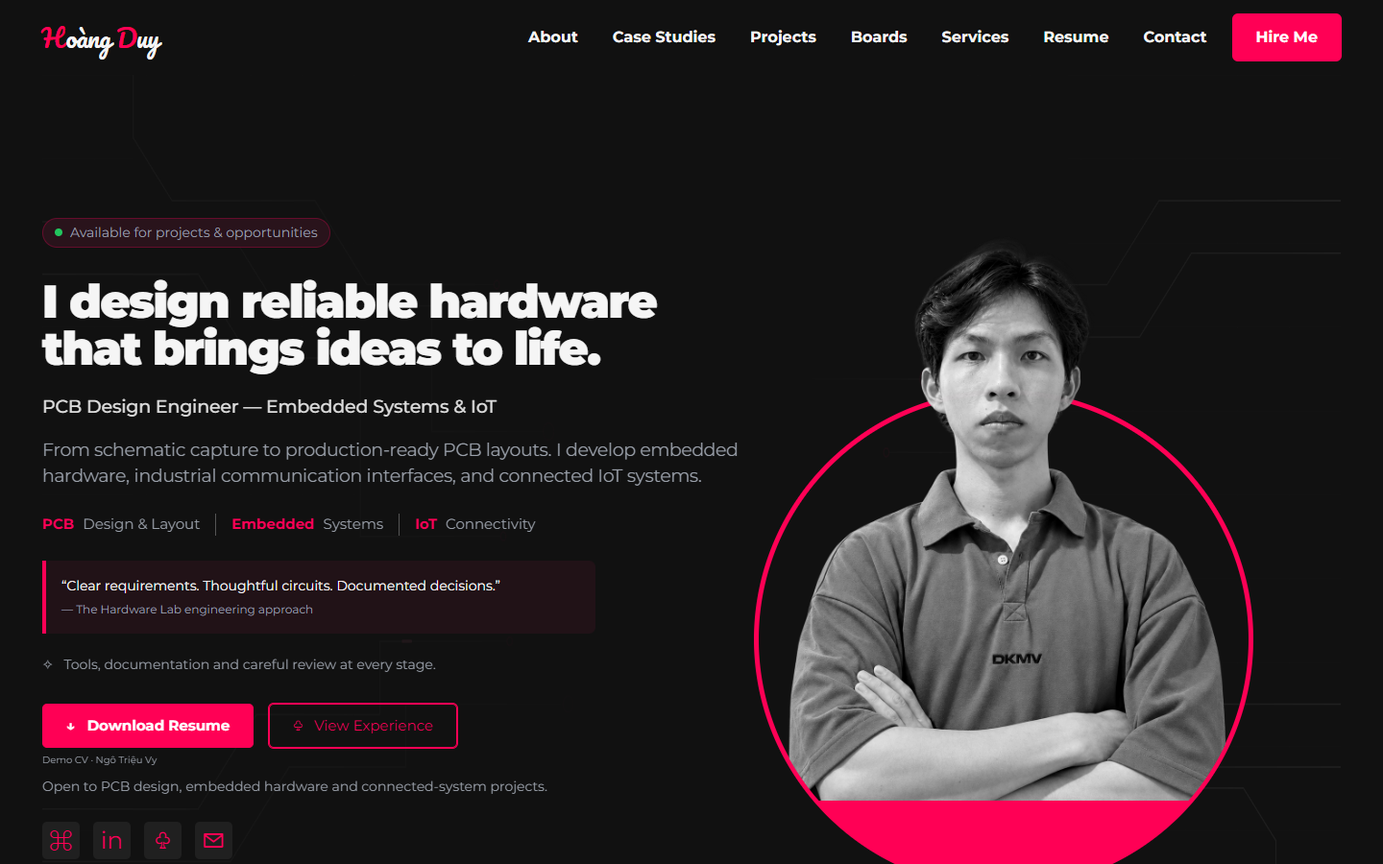
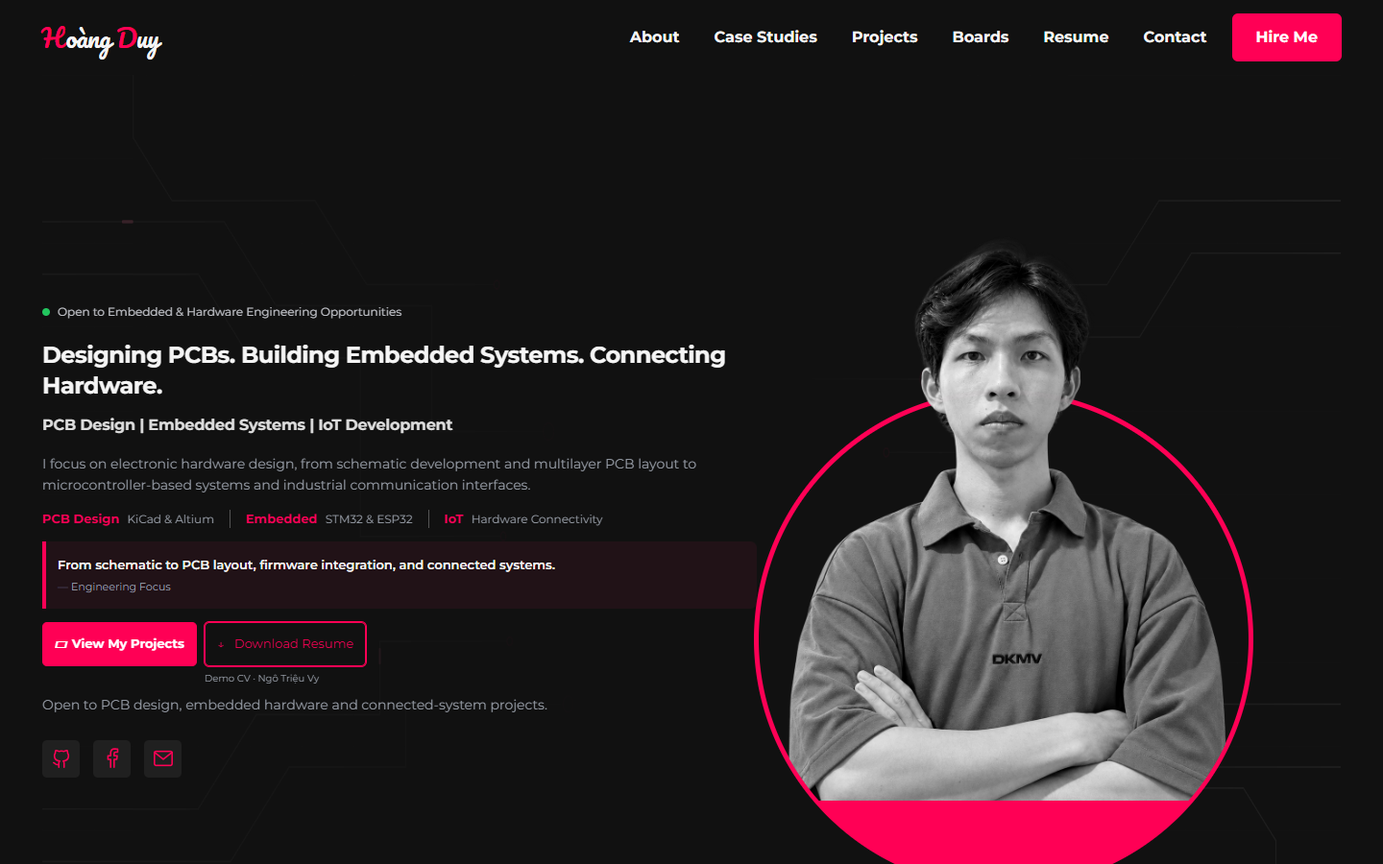
Refresh hero, social links and technical skills

diff --git a/src/components/PortfolioHome.tsx b/src/components/PortfolioHome.tsx
@@ -15,26 +15,27 @@ import { CircuitBackground } from './backgrounds/CircuitBackground';
 import { ProjectCard } from './ProjectCard';
 import { ResumeDownload } from './ResumeDownload';
 import { VisionMarquee } from './VisionMarquee';
+import { PortfolioSocials } from './PortfolioSocials';
+import { TechnicalSkills } from './TechnicalSkills';
 
 export function Heading({label,children,description}:{label:string;children:ReactNode;description?:string}){return <div className="ref-heading"><span>{label}</span><h2>{children}</h2>{description&&<p>{description}</p>}</div>}
 export function Action({children,outline=false,href='#contact'}:{children:ReactNode;outline?:boolean;href?:string}){return <Link className={'ref-button'+(outline?' outline':'')} href={href}>{children}</Link>}
-export function Socials(){return <div className="ref-socials"><Link href="/boards/" aria-label="Project library">⌘</Link><Link href="/about/" aria-label="About Hardware Lab"><span aria-hidden="true">in</span></Link><Link href="/portfolio/schematics/" aria-label="Schematic studies">♧</Link><a href="#contact" aria-label="Contact">✉</a></div>}
+export function Socials(){return <PortfolioSocials/>}
 const capabilities=[['ϟ','PCB LAYOUT & ROUTING','Production-minded Design','Component placement, signal routing and clear manufacturing documentation.','KiCad · Altium'],['♡','EMBEDDED MICROCONTROLLERS','Connected Control','Microcontroller architecture, peripheral interfaces and firmware integration.','STM32 · ESP32'],['♧','INDUSTRIAL COMMUNICATION','Reliable Interfaces','System planning for robust communication between connected devices.','CAN · RS485'],['↔','ANALOG & DIGITAL INTERFACES','Clear Signal Paths','Sensor acquisition, digital control and interface protection studies.','ADC · GPIO'],['▱','POWER SUPPLY DESIGN','Thoughtful Power','Power architecture, regulation and distribution for embedded systems.','DC/DC · LDO'],['◇','IoT CONNECTIVITY','Remote Visibility','Connected hardware concepts for monitoring, telemetry and control.','Ethernet · Cellular']];
-const services=[{title:'PCB Design & Schematic Capture',sub:'Bring your circuit into physical form',for:'Hardware teams developing a new board',desc:'A clear path from component selection and schematic capture to layout and manufacturing documentation.',items:['Component selection and schematic design','PCB placement and routing','Design rule review','BOM and manufacturing outputs']},{title:'Embedded Hardware Development',sub:'Connect sensing, processing and control',for:'Teams building microcontroller-based products',desc:'Plan embedded hardware around your system requirements, with documented interfaces and firmware integration.',items:['STM32 / ESP32 integration','Sensor and peripheral interfaces','Communication protocol planning','Hardware debugging support']},{title:'IoT System Prototyping',sub:'Bring connected ideas to life',for:'Teams exploring remote monitoring systems',desc:'Connect devices, data and interfaces through a documented prototype architecture tailored to your application.',items:['Wireless connectivity planning','Ethernet and cellular interfaces','Remote monitoring architecture','Dashboard integration']}];
 export function CaseStudy({index=0}:{index?:number}){const board=boards[index];return <article className={'ref-case'+(!index?' featured':'')}><div className="ref-tags"><span>{!index?'Featured project':'Personal project'}</span><span>{board.name}</span></div><h3>{board.name}</h3><p className="ref-role">♧ Personal hardware & PCB design project</p><p className="ref-period">Original project image · Design documentation</p><h4>THE PROJECT</h4><p>{board.description}</p><h4>PROJECT WORK</h4><ul>{board.features.map(x=><li key={x}>{x}</li>)}</ul><h4>DESIGN SCOPE</h4><div className="ref-results">{board.scope.map(x=><div key={x}><strong><AnimatedCounter text={x}/></strong><small>Project scope</small></div>)}</div><h4>TECH STACK</h4><div className="ref-tags">{board.techStack.map(x=><span key={x}>{x}</span>)}</div></article>}
 export function PortfolioHome(){const[expanded,setExpanded]=useState(false);const{value:education,select:setEducation,panelRef}=useAnimatedPanel(false);const motionScope=usePortfolioMotion();return <div className="reference-home" ref={motionScope}>
-<section className="ref-hero ref-container circuit-section"><div><div className="ref-available"><i/>Available for projects & opportunities</div><h1>I design reliable hardware<br/>{' '}that brings ideas to life.</h1><p className="ref-title">PCB Design Engineer — Embedded Systems & IoT</p><p className="ref-lead">From schematic capture to production-ready PCB layouts. I develop embedded hardware, industrial communication interfaces, and connected IoT systems.</p><div className="ref-highlights"><span><b>PCB</b> Design & Layout</span><span><b>Embedded</b> Systems</span><span><b>IoT</b> Connectivity</span></div><blockquote><em>“Clear requirements. Thoughtful circuits. Documented decisions.”</em><small>— The Hardware Lab engineering approach</small></blockquote><p className="ref-advantage">✧ &nbsp; Tools, documentation and careful review at every stage.</p><div className="ref-actions"><ResumeDownload/><Action outline href="#resume">♧ &nbsp; View Experience</Action></div><p className="ref-note">Open to PCB design, embedded hardware and connected-system projects.</p><Socials/></div><figure className="ref-hero-art"><div className="ref-circle"/><div className="ref-portrait-window"><Image src={portrait.src} width={portrait.width} height={portrait.height} alt={portrait.alt} sizes="(max-width: 799px) 90vw, 520px" loading="eager" fetchPriority="high"/></div><figcaption>{portrait.caption}</figcaption></figure><CircuitBackground/></section>
-<section className="ref-container ref-trust"><p>Engineering tools & platforms</p><div className="ref-tools">{['KiCad','Altium Designer','STM32','ESP32','JLCPCB'].map(x=><span key={x}>♧ &nbsp;{x}</span>)}</div><div className="ref-three ref-stats">{[['PCB','Layout & Schematic Design'],['STM32 / ESP32','Embedded Development'],['CAN / RS485','Interface Integration']].map(([a,b])=><div key={a}><strong>{a}</strong><p>{b}</p></div>)}</div></section>
+<section className="ref-hero ref-container circuit-section"><div><div className="ref-available"><i/>Open to Embedded & Hardware Engineering Opportunities</div><h1>Designing PCBs. Building Embedded Systems. Connecting Hardware.</h1><p className="ref-title">PCB Design | Embedded Systems | IoT Development</p><p className="ref-lead">I focus on electronic hardware design, from schematic development and multilayer PCB layout to microcontroller-based systems and industrial communication interfaces.</p><div className="ref-highlights"><span><b>PCB Design</b> KiCad & Altium</span><span><b>Embedded</b> STM32 & ESP32</span><span><b>IoT</b> Hardware Connectivity</span></div><blockquote><em>From schematic to PCB layout, firmware integration, and connected systems.</em><small>— Engineering Focus</small></blockquote><div className="ref-actions"><Action href="#projects">▱ View My Projects</Action><ResumeDownload outline/></div><p className="ref-note">Open to PCB design, embedded hardware and connected-system projects.</p><Socials/></div><figure className="ref-hero-art"><div className="ref-circle"/><div className="ref-portrait-window"><Image src={portrait.src} width={portrait.width} height={portrait.height} alt={portrait.alt} sizes="(max-width: 799px) 90vw, 520px" loading="eager" fetchPriority="high"/></div><figcaption>{portrait.caption}</figcaption></figure><CircuitBackground/></section>
+<section className="ref-container ref-trust"><p>Engineering tools & platforms</p><div className="ref-tools">{['KiCad','Altium Designer','STM32','ESP32','JLCPCB'].map(x=><span key={x}>♧ &nbsp;{x}</span>)}</div><div className="ref-domain-grid">{[["HARDWARE","Hardware design","PCB schematic & layout"],["FIRMWARE","Firmware integration","Microcontrollers & interfaces"],["SOFTWARE","Software interfaces","Dashboards & monitoring"],["IoT","Connected systems","Sensors, telemetry & control"]].map(([label,title,description])=><article key={label}><span>{label}</span><h3>{title}</h3><p>{description}</p></article>)}</div></section>
 <section id="case-studies" className="ref-container ref-section"><Heading label="ENGINEERING STUDIES" description="My personal hardware projects, with original board images and design documentation.">Featured <em>Case Studies</em></Heading><CaseStudy/><div className="ref-two ref-case-grid"><CaseStudy index={1}/><CaseStudy index={2}/></div><div className="ref-strategy"><p>Have a hardware challenge to explore?</p><ResumeDownload/></div></section>
 <VisionMarquee/>
 <section id="projects" className="ref-container ref-section circuit-section"><Heading label="SELECTED WORK" description="Five personal PCB and embedded hardware projects. ESP32 Devkit, IoT Board and ESP32 Datalogger are featured first.">Recent <em>Projects</em></Heading><div className="ref-three ref-projects">{boards.slice(0,3).map(board=><ProjectCard key={board.slug} board={board}/>)}</div><AnimatedRegion open={expanded} id="additional-projects"><div className="ref-three ref-projects ref-extra">{boards.slice(3).map(board=><ProjectCard key={board.slug} board={board}/>)}</div></AnimatedRegion><button className="ref-expand" aria-controls="additional-projects" onClick={()=>setExpanded(!expanded)} aria-expanded={expanded}>{expanded?'▾ Show fewer projects':'▸ View 2 more projects'}</button><CircuitBackground variant="transition"/></section>
-<section id="services" className="ref-container ref-section"><Heading label="HOW I CAN HELP" description="Clear deliverables and a scope tailored to your engineering needs."><em>Productized</em> Services</Heading><div className="ref-three ref-services">{services.map((s,i)=><article key={s.title}><div className="service-top"><span className="ref-icon"><ReferenceIcon symbol={['⌕','◎','✧'][i]}/></span>{!i&&<b>Most Popular</b>}</div><h3>{s.title}</h3><p className="service-sub">{s.sub}</p><p><strong>For:</strong> {s.for}</p><p>{s.desc}</p><h4>What you get:</h4><ul>{s.items.map(x=><li key={x}>{x}</li>)}</ul><p className="service-time">◷ &nbsp; Timeline: <strong>Quoted per project</strong></p><Action outline={i>0}>{["Let's Talk →",'Get a Quote →','Discuss Your Idea →'][i]}</Action></article>)}</div></section>
 <section id="about" className="ref-container ref-about ref-section"><figure><Image src={aboutPortrait.src} alt={aboutPortrait.alt} width={aboutPortrait.width} height={aboutPortrait.height} sizes="(max-width: 799px) 90vw, 565px"/><figcaption>{aboutPortrait.caption}</figcaption></figure><div><span className="ref-label">ABOUT ME</span><h2><em>PCB Design,</em> Embedded<br/>Systems & <em>IoT Engineer</em></h2><p>A personal engineering workspace exploring hardware, firmware and the interfaces that connect them.</p><p className="pink">From the first schematic to connected system concepts, the focus is thoughtful design and clear documentation.</p><h4>I SPECIALIZE IN:</h4><ul className="ref-checks"><li>PCB design and schematic capture with KiCad and Altium</li><li>Embedded microcontrollers and industrial interfaces</li><li>Connected monitoring and IoT system architecture</li></ul><aside>✧ &nbsp; The project images show my personal board designs. Detailed test results and manufacturing status are not published.</aside><Socials/></div></section>
 <section className="ref-container ref-section"><Heading label="WHY THOUGHTFUL ENGINEERING MATTERS" description="Every design starts with system requirements: clear interfaces, maintainable circuits and a practical path to validation."><em>Capabilities</em> I Deliver,<br/>From Circuit to <em>System</em></Heading><div className="ref-three ref-capabilities">{capabilities.map(([icon,title,sub,desc,tags])=><article key={title}><span><ReferenceIcon symbol={icon}/></span><h4>{title}</h4><p className="pink">{sub}</p><p>{desc}</p><div className="ref-tags"><b>{tags}</b><b>Engineering studies</b></div></article>)}</div></section>
 <section id="resume" className="ref-container ref-section"><Heading label="PROJECT-BASED BACKGROUND" description="My personal hardware and embedded-system projects. Employment and education details will be added when supplied.">Engineering <em>Experience</em></Heading><div className="ref-tabs" role="tablist" aria-label="Background" onKeyDown={event=>{if(["ArrowLeft","ArrowRight","Home","End"].includes(event.key)){event.preventDefault();const next=event.key==="Home"?false:event.key==="End"?true:!education;setEducation(next);document.getElementById(next?"education-tab":"experience-tab")?.focus();}}}><button role="tab" id="experience-tab" aria-controls="career-panel" tabIndex={education?-1:0} aria-selected={!education} onClick={()=>setEducation(false)}>Experience</button><button role="tab" id="education-tab" aria-controls="career-panel" tabIndex={education?0:-1} aria-selected={education} onClick={()=>setEducation(true)}>Education</button></div><div className="ref-timeline" ref={panelRef} role="tabpanel" id="career-panel" aria-labelledby={education?"education-tab":"experience-tab"}>{education?<article><h3>Education details</h3><p>Education and qualifications will be added when provided by the portfolio owner.</p></article>:boards.map(board=><article key={board.slug}><i>▣</i><h3>{board.name}</h3><div className="timeline-role"><strong>Personal Hardware & PCB Project</strong><span>Personal project</span></div><div className="ref-tags"><span>PCB Design</span><span>Interfaces</span><span>Documentation</span></div><ul>{board.features.map(x=><li key={x}>{x}</li>)}</ul></article>)}</div></section>
+<TechnicalSkills/>
 <section className="ref-container ref-section"><Heading label="LET’S CONNECT" description="Whether you need engineering support for your project or you’re building your team, let’s discuss the requirements."><em>Work</em> With Me</Heading><div className="ref-two ref-work"><article><span className="ref-icon">♧</span><h3>Have a Hardware Project in Mind?</h3><p>From PCB layout to embedded interfaces and IoT architecture, share your requirements and let&apos;s explore the next step.</p><ResumeDownload/></article><article><span className="ref-icon">♙</span><h3>Open to Engineering Opportunities</h3><p>Interested in thoughtful hardware, embedded systems and connected-product work.</p><h4>Areas of interest:</h4><ul className="ref-checks"><li>PCB design and schematic capture</li><li>Embedded hardware development</li><li>Industrial interfaces and connectivity</li><li>Teams that value clear documentation</li></ul><Action outline href="#resume">♧ &nbsp; View Experience</Action><p className="work-direct">Or reach out directly:</p><a href="#contact">▣ &nbsp; Start a Conversation</a></article></div></section>
 <section id="faq" className="ref-container ref-section"><Heading label="QUESTIONS & ANSWERS" description="Common questions about engineering services, project scope and how I work.">Frequently Asked <em>Questions</em></Heading><div className="ref-faq">{[['What PCB design software do you use?','The workspace includes KiCad and Altium Designer studies. Tool choice depends on your project requirements.'],['Can you support hardware prototyping?','Prototype scope, assembly and validation requirements are agreed for each project.'],['Do you design multi-layer PCBs?','Layer count and stackup are selected according to routing, signal and power requirements.'],['Do you work with STM32 and ESP32?','These platforms are included in the embedded hardware design scope.'],['Which microcontrollers do you work with?','STM32, ESP32 and other devices can be considered based on your application.'],['Can you integrate IoT connectivity?','Connectivity architecture may include Ethernet, wireless and cellular interfaces.'],['Can you develop industrial interfaces?','CAN, RS485 and analog or digital interface planning can be scoped for your system.'],['Do you offer schematic reviews?','Reviews can cover architecture, interfaces, component selection and design documentation.'],['Do you provide manufacturing files?','Agreed deliverables can include BOM, Gerbers and assembly documentation after design review.'],['Can you help debug existing PCB designs?','Share schematics, symptoms and available measurements to establish a review and debugging scope.']].map(([q,a])=><AnimatedFAQ key={q} question={q} answer={a}/>)}</div></section>
-<section id="contact" className="ref-container ref-section ref-contact circuit-section"><div><span className="ref-label">GET IN TOUCH</span><h2>Let&apos;s Talk For your <em>Next Project(s)</em></h2><p>Discuss a project or just want to say hi? Share your requirements, explore my <a href="#case-studies">case studies</a>, review my <a href="#services">services</a>, or check my <a href="#resume">engineering background.</a></p><ul className="ref-checks"><li>PCB design and schematic capture</li><li>Embedded systems and microcontrollers</li><li>Industrial communication interfaces</li><li>Connected hardware and IoT architecture</li></ul><div className="ref-contact-actions"><Socials/><SendEmail/></div></div><ContactForm/><CircuitBackground variant="contact"/></section>
+<section id="contact" className="ref-container ref-section ref-contact circuit-section"><div><span className="ref-label">GET IN TOUCH</span><h2>Let&apos;s Talk For your <em>Next Project(s)</em></h2><p>Discuss a project or just want to say hi? Share your requirements, explore my <a href="#case-studies">case studies</a>, review my <a href="#technical-skills">technical skills</a>, or check my <a href="#resume">engineering background.</a></p><ul className="ref-checks"><li>PCB design and schematic capture</li><li>Embedded systems and microcontrollers</li><li>Industrial communication interfaces</li><li>Connected hardware and IoT architecture</li></ul><div className="ref-contact-actions"><Socials/><SendEmail/></div></div><ContactForm/><CircuitBackground variant="contact"/></section>
 </div>}
 
 

diff --git a/src/app/reference.css b/src/app/reference.css
@@ -148,3 +148,39 @@ html{color-scheme:dark}body{background:#111;color:#f5f5f5;font-family:'Reference
 .resume-download{display:inline-flex;flex-direction:column;align-items:center;gap:6px}.resume-download small{font-size:10px;color:#999fa9;font-weight:400}
 .board-catalog .filters input,.board-catalog .filters select{background:#1f1f1f;color:#f5f5f5;border:1px solid #363636;border-radius:5px}.board-catalog .filters input::placeholder{color:#999fa9}.board-catalog .filters select option{background:#1f1f1f;color:#f5f5f5}
 .resume-download{position:relative}.resume-download small{position:absolute;top:calc(100% + 5px);left:0;right:0;white-space:nowrap}
+
+/* Owner's revised introduction and skill cards. */
+.ref-hero h1{font-size:28px;line-height:1.32;letter-spacing:-.5px;font-weight:700;margin-top:18px;margin-bottom:14px}
+.ref-hero .ref-available{padding:0;border:0;background:none;font-size:12px;color:#c5c7cd}
+.ref-hero .ref-title{font-size:16px;font-weight:700;line-height:1.5;margin-bottom:14px}
+.ref-hero .ref-lead{font-size:14px;line-height:1.55;letter-spacing:0;margin-bottom:14px}
+.ref-hero .ref-highlights{font-size:12px;margin-bottom:14px;flex-wrap:wrap;row-gap:8px}
+.ref-hero .ref-highlights b{font-size:13px}
+.ref-hero blockquote{padding:14px 12px;margin-bottom:14px}
+.ref-hero blockquote em{font-size:13px;font-style:normal;font-weight:600}
+.ref-hero blockquote small{font-size:11px;margin-top:4px}
+.ref-hero .ref-actions{gap:8px;align-items:flex-start}
+.ref-hero .ref-button{padding:12px;font-size:13px;min-height:46px}
+.ref-socials a{position:relative;overflow:visible;display:inline-flex;align-items:center;justify-content:center}
+.social-tooltip{position:absolute;bottom:calc(100% + 9px);left:50%;transform:translate(-50%,4px);padding:5px 10px;border:1px solid #ff0055;border-radius:4px;background:#181818;color:#eee;font-size:12px;font-weight:400;line-height:1.4;white-space:nowrap;opacity:0;visibility:hidden;pointer-events:none;transition:opacity .15s,transform .15s,visibility .15s}
+.ref-socials a:hover,.ref-socials a:focus-visible{background:#ff0055;color:white;transform:translateY(-2px)}
+.ref-socials a:hover .social-tooltip,.ref-socials a:focus-visible .social-tooltip{opacity:1;visibility:visible;transform:translate(-50%,0)}
+.ref-domain-grid{display:grid;grid-template-columns:repeat(4,minmax(0,1fr));gap:20px;text-align:left}
+.ref-domain-grid article,.technical-skills-grid article{background:#201b1e;border:1px solid #53303d;border-radius:6px;padding:24px}
+.ref-domain-grid article>span{display:block;color:#ff0055;font-size:10px;letter-spacing:1.8px;font-weight:600;margin-bottom:14px}
+.ref-domain-grid h3{font-size:16px;line-height:1.4;margin:0 0 8px;font-weight:700}
+.ref-domain-grid p{font-size:13px;line-height:1.55;margin:0;color:#999fa9}
+.technical-skills-grid{gap:24px}
+.technical-skills-grid article{padding:24px;min-width:0}
+.technical-skills-grid .ref-icon{display:inline-flex;align-items:center;justify-content:center;width:40px;height:40px;background:#ff005515;border-radius:7px;color:#ff0055;margin-bottom:18px}
+.technical-skills-grid .ref-icon svg{width:22px;height:22px}
+.technical-skills-grid h3{font-size:16px;line-height:1.4;margin:0 0 12px}
+.technical-skills-grid p{font-size:13px;line-height:1.7;margin-bottom:18px;color:#999fa9}
+.skill-tags{display:flex;flex-wrap:wrap;gap:6px}
+.skill-tags span{font-size:10px;color:#b9adb2;border:1px solid #53303d;background:#181417;border-radius:5px;padding:4px 7px}
+@media(hover:hover) and (pointer:fine){.ref-domain-grid article,.technical-skills-grid article{transition:transform .25s,border-color .25s,background-color .25s}.ref-domain-grid article:hover,.technical-skills-grid article:hover{border-color:#ff0055;background:#282025;transform:translateY(-4px)}}
+@media(max-width:1024px){.ref-domain-grid{grid-template-columns:repeat(2,minmax(0,1fr))}}
+@media(max-width:799px){.ref-hero h1{font-size:24px}.technical-skills-grid{grid-template-columns:repeat(2,minmax(0,1fr))}}
+@media(max-width:480px){.ref-domain-grid,.technical-skills-grid{grid-template-columns:1fr}.ref-domain-grid{gap:12px}.ref-hero .ref-title{font-size:14px}.ref-hero .ref-highlights span+span{padding-left:0;border-left:0}.ref-hero .ref-highlights{column-gap:12px}}
+@media(prefers-reduced-motion:reduce){.ref-socials a,.social-tooltip,.ref-domain-grid article,.technical-skills-grid article{transition:none!important}.ref-domain-grid article:hover,.technical-skills-grid article:hover{transform:none}}
+.ref-hero .ref-available{margin-bottom:0}.ref-hero h1{font-size:24px}.ref-hero blockquote{max-width:100%}

diff --git a/src/components/TechnicalSkills.tsx b/src/components/TechnicalSkills.tsx
@@ -1,0 +1,10 @@
+import {ReferenceIcon} from './ReferenceIcon';
+const skills=[
+ {icon:'⌕',title:'PCB Design & Tools',description:'Schematic capture, component placement and PCB layout for personal hardware projects.',tags:['KiCad','Altium Designer','Schematic','PCB Layout']},
+ {icon:'◇',title:'Embedded Platforms',description:'Microcontroller hardware, peripheral connections and firmware integration planning.',tags:['STM32','ESP32','GPIO','Peripherals']},
+ {icon:'↔',title:'Communication Interfaces',description:'Industrial communication interfaces and analog or digital signal connections.',tags:['CAN','RS485','ADC','Digital I/O']},
+ {icon:'▱',title:'Power Supply Design',description:'Power architecture, voltage regulation and distribution for embedded boards.',tags:['DC/DC','LDO','Power Distribution']},
+ {icon:'◎',title:'IoT & Connectivity',description:'Connected hardware concepts for remote monitoring, telemetry and control.',tags:['Ethernet','Cellular','Monitoring','Data Logging']},
+ {icon:'♧',title:'Design Documentation',description:'Clear schematics, interface notes and manufacturing deliverable planning.',tags:['BOM','Gerbers','Design Review','Documentation']},
+];
+export function TechnicalSkills(){return <section id="technical-skills" className="ref-container ref-section"><div className="ref-heading"><span>TOOLS & ENGINEERING KNOWLEDGE</span><h2>Technical <em>Skills</em></h2></div><div className="ref-three technical-skills-grid">{skills.map(skill=><article key={skill.title}><span className="ref-icon"><ReferenceIcon symbol={skill.icon}/></span><h3>{skill.title}</h3><p>{skill.description}</p><div className="skill-tags">{skill.tags.map(tag=><span key={tag}>{tag}</span>)}</div></article>)}</div></section>}

diff --git a/src/components/PortfolioSocials.tsx b/src/components/PortfolioSocials.tsx
@@ -1,0 +1,14 @@
+import {site} from '@/data/site';
+
+function SocialIcon({name}:{name:string}){
+ const paths:Record<string,React.ReactNode>={
+  GitHub:<><path d="M9 19c-4 1-4-2-6-2m12 5v-4a3.5 3.5 0 0 0-1-3c3-.3 6-1.5 6-6A4.7 4.7 0 0 0 19 6c.1-1-.1-2-.5-3 0 0-1.1-.3-3.5 1a12 12 0 0 0-6 0C6.6 2.7 5.5 3 5.5 3A6 6 0 0 0 5 6a4.7 4.7 0 0 0-1 3c0 4.5 3 5.7 6 6a3.5 3.5 0 0 0-1 3v4"/></>,
+  Facebook:<path d="M14 22v-9h3l.5-4H14V6.5c0-1.1.3-1.5 1.5-1.5H18V1.5A20 20 0 0 0 15 1c-3 0-5 1.8-5 5v3H7v4h3v9"/>,
+  Email:<><rect x="2" y="4" width="20" height="16" rx="2"/><path d="m2 5 10 8L22 5"/></>,
+ };
+ return <svg width="22" height="22" viewBox="0 0 24 24" fill="none" stroke="currentColor" strokeWidth="1.7" strokeLinecap="round" strokeLinejoin="round" aria-hidden="true">{paths[name]}</svg>;
+}
+export function PortfolioSocials(){
+ const links=[{name:'GitHub',href:site.githubUrl},{name:'Facebook',href:site.facebookUrl},{name:'Email',href:`mailto:${site.email}`}];
+ return <div className="ref-socials">{links.map(({name,href})=><a key={name} href={href} aria-label={name} target={name==='Email'?undefined:'_blank'} rel={name==='Email'?undefined:'noopener noreferrer'}><SocialIcon name={name}/><span className="social-tooltip" role="tooltip">{name}</span></a>)}</div>;
+}

diff --git a/src/hooks/usePortfolioMotion.ts b/src/hooks/usePortfolioMotion.ts
@@ -32,7 +32,7 @@ export function usePortfolioMotion(){
         if(!element.isConnected){observer.unobserve(element);targets.delete(element);}
       }
       const siblings=new Map<Element|null,number>();
-      const selector='.ref-heading,.ref-trust > p,.ref-tools,.ref-stats > div,.ref-case,.ref-projects:not(.ref-extra) > a,.ref-services article,.ref-about > figure,.ref-about > div,.ref-capabilities article,.ref-tabs,.ref-timeline article,.ref-work article,.ref-faq details,.ref-contact > div,.ref-contact > form';
+      const selector='.ref-domain-grid article,.technical-skills-grid article,.ref-heading,.ref-trust > p,.ref-tools,.ref-stats > div,.ref-case,.ref-projects:not(.ref-extra) > a,.ref-services article,.ref-about > figure,.ref-about > div,.ref-capabilities article,.ref-tabs,.ref-timeline article,.ref-work article,.ref-faq details,.ref-contact > div,.ref-contact > form';
       root!.querySelectorAll<HTMLElement>(selector).forEach(element=>{
         const index=siblings.get(element.parentElement)||0;
         siblings.set(element.parentElement,index+1);

diff --git a/src/components/Footer.tsx b/src/components/Footer.tsx
@@ -1,2 +1,2 @@
 import Link from 'next/link';
-export function Footer(){return <footer className="site-footer"><div className="container footer-top"><span>Copyright © 2026, <em>Hoàng Duy.</em> All Rights Reserved</span><nav aria-label="Footer navigation">{['About','Case Studies','Projects','Services','Resume','FAQ'].map(name=><Link key={name} href={'/#'+name.toLowerCase().replace(' ','-')}>{name}</Link>)}</nav></div></footer>}
+export function Footer(){return <footer className="site-footer"><div className="container footer-top"><span>Copyright © 2026, <em>Hoàng Duy.</em> All Rights Reserved</span><nav aria-label="Footer navigation">{['About','Case Studies','Projects','Resume','FAQ'].map(name=><Link key={name} href={'/#'+name.toLowerCase().replace(' ','-')}>{name}</Link>)}</nav></div></footer>}

diff --git a/src/components/ResumeDownload.tsx b/src/components/ResumeDownload.tsx
@@ -1,5 +1,5 @@
 import {resumeConfig} from '@/data/resume';
-export function ResumeDownload(){
-  if(resumeConfig.url)return <span className="resume-download"><a className="ref-button" href={resumeConfig.url} download>↓ &nbsp; Download Resume</a>{resumeConfig.demo&&<small>Demo CV · Ngô Triệu Vy</small>}</span>;
+export function ResumeDownload({outline=false}:{outline?:boolean}){
+  if(resumeConfig.url)return <span className="resume-download"><a className={'ref-button'+(outline?' outline':'')} href={resumeConfig.url} download>↓ &nbsp; Download Resume</a>{resumeConfig.demo&&<small>Demo CV · Ngô Triệu Vy</small>}</span>;
   return <button className="ref-button" disabled title="Resume PDF has not been supplied yet">↓ &nbsp; Download Resume</button>;
 }

diff --git a/src/components/Header.tsx b/src/components/Header.tsx
@@ -6,7 +6,7 @@ import { transientAnimation, motionTiming } from '@/lib/animations';
 import { useActiveSection } from '@/hooks/useActiveSection';
 import { useReducedMotion } from '@/hooks/useReducedMotion';
 
-const navigation=['About','Case Studies','Projects','Boards','Services','Resume','Contact'];
+const navigation=['About','Case Studies','Projects','Boards','Resume','Contact'];
 const sectionId=(name:string)=>name.toLowerCase().replace(' ','-');
 const sectionHref=(name:string)=>name==='Boards'?'/boards/':'/#'+sectionId(name);
 

diff --git a/src/data/site.ts b/src/data/site.ts
@@ -7,7 +7,8 @@ export const site = {
   email: isContactEmail(contactConfig.email) ? contactConfig.email : '',
   contactPlaceholder: 'Contact email coming soon',
   location: '',
-  githubUrl: '',
+  githubUrl: 'https://github.com/duyhohoang',
+  facebookUrl: 'https://www.facebook.com/hoang.duy.72806/',
   linkedinUrl: '',
 };
 export const navigation = ['Workspace', 'Boards', 'Firmware', 'Dashboard', 'About', 'Contact'];

diff --git a/src/hooks/useActiveSection.ts b/src/hooks/useActiveSection.ts
@@ -5,7 +5,7 @@ export function useActiveSection(enabled:boolean){
   useEffect(()=>{
     if(!enabled)return;
     const sections=Array.from(document.querySelectorAll<HTMLElement>(
-      '#case-studies,#projects,#services,#about,#resume,#contact'));
+      '#case-studies,#projects,#about,#resume,#contact'));
     let frame=0;
     const update=()=>{
       frame=0;

diff --git a/docs/home-intro/README.md b/docs/home-intro/README.md
@@ -1,0 +1,13 @@
+# Home introduction and technical skills refresh
+
+- Hero copy, 24px heading, spacing and primary/outline actions follow the supplied introduction screenshot. Existing portrait dimensions and frame are retained.
+- Social icons use the owner's GitHub and Facebook URLs, plus email. Hover and keyboard focus display a pink background and a bordered tooltip.
+- Four compact domain cards replace the three large headline cards, retaining the pink/red palette.
+- Six Technical Skills cards appear immediately after Experience. Content stays within the existing PCB, embedded, interfaces, power, IoT and documentation scope; unverified claims from the reference are omitted.
+- Productized Services and links to its deleted anchor have been removed.
+
+Main files changed: PortfolioHome.tsx, PortfolioSocials.tsx, TechnicalSkills.tsx, ResumeDownload.tsx, Header.tsx, Footer.tsx, reference.css, site.ts, usePortfolioMotion.ts and useActiveSection.ts.
+
+Validation: production build, ESLint, 12 unit tests, static export (30 pages, 1,429 internal references, 66 images), intro/social/skills checks at seven viewport widths, and menu/FAQ/tabs/form/animation/reduced-motion/no-JavaScript checks passed. See screenshots and checks.json in this directory and docs/animation-production/results.json.
+
+Build limitation: installed Next.js 16.4.0 reports a known security vulnerability and recommends upgrading. The unchanged build command succeeds on retry. Dependency upgrades were not included in this visual change.
